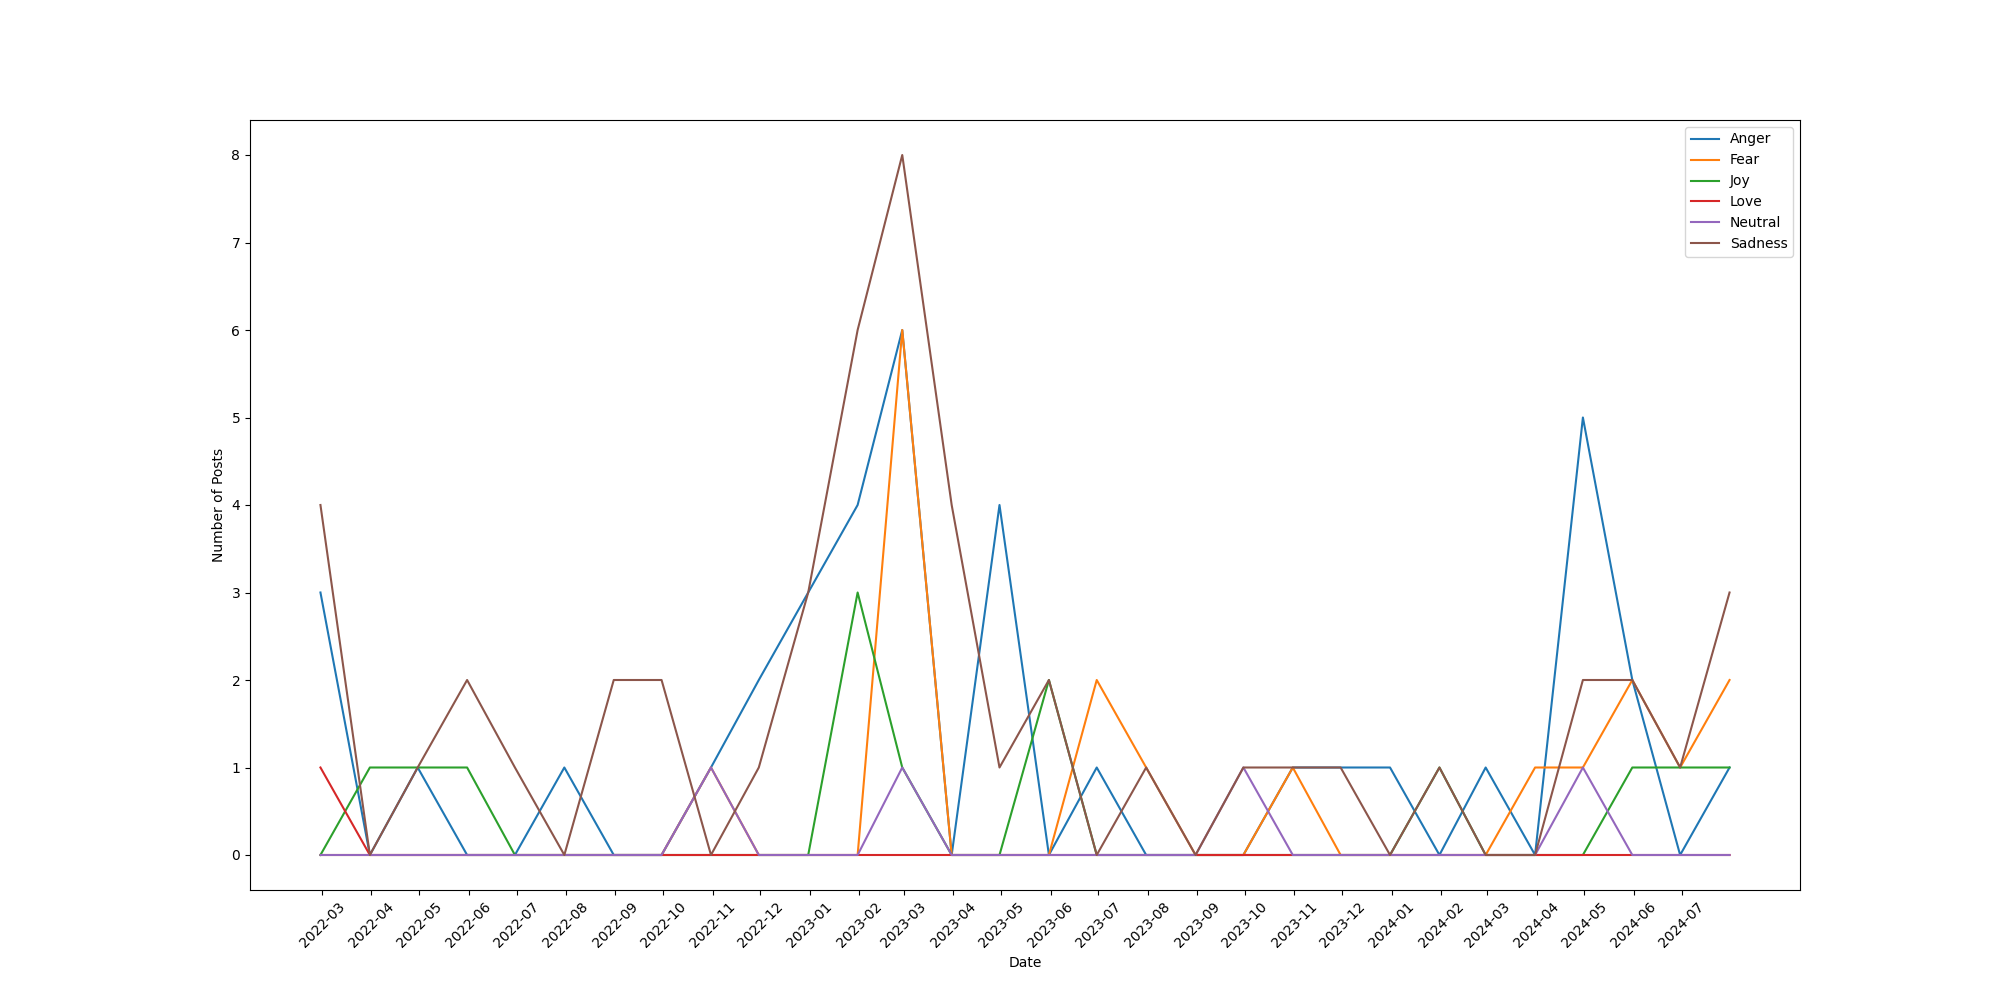
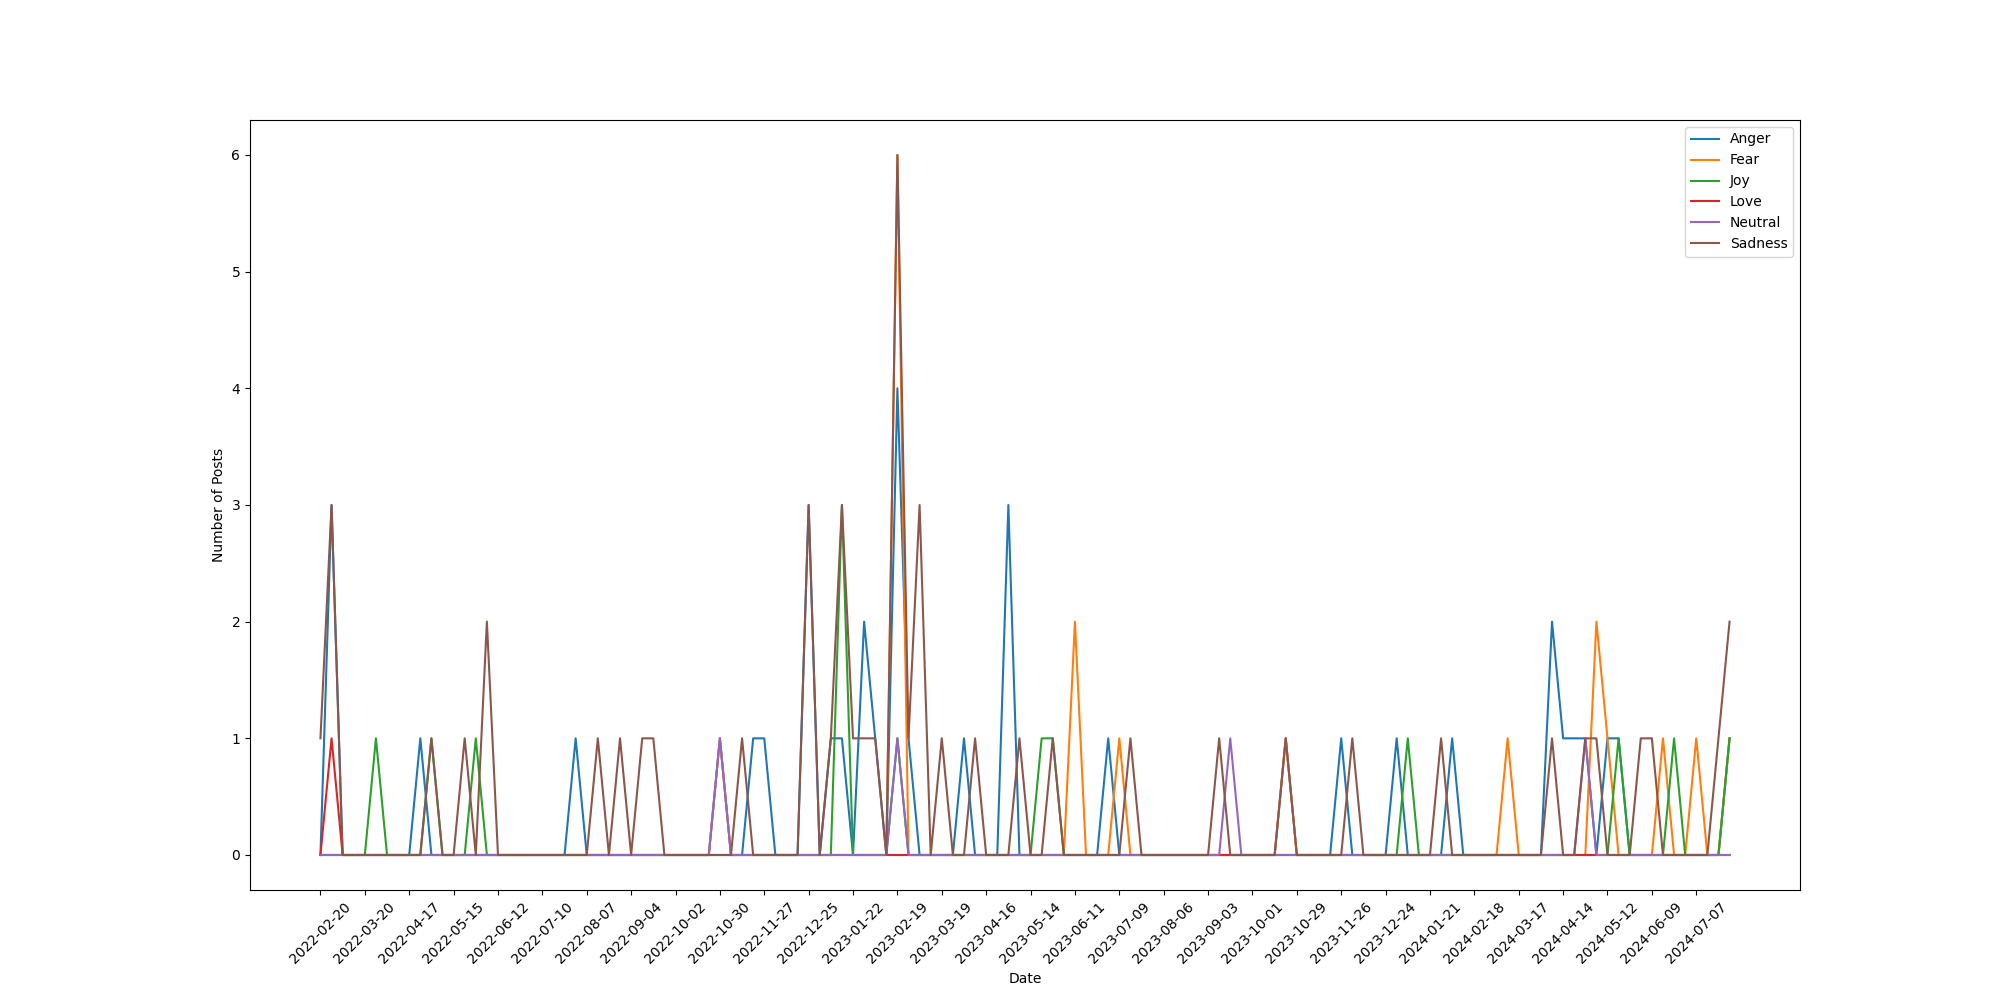
Added to graphs

Changed region(s): [[0.155, 0.155, 0.868, 0.868], [0.155, 0.899, 0.868, 0.992], [0.496, 0.527, 0.527, 0.558]]

diff --git a/sentiment_analysis/sentiments_vs_outbreaks_levels.py b/sentiment_analysis/sentiments_vs_outbreaks_levels.py
@@ -3,7 +3,7 @@ import matplotlib.pyplot as plt
 from scipy.stats import pearsonr
 import os
 
-def generate_correlation_graph(state, sentiment, shifted=False):\
+def generate_correlation_graph(state, sentiment, shifted=False, removed_outliers=False):
 
     if state == '_overall_':
         sentiments_data = pd.read_csv('csv_files/classified_comments.csv')
@@ -54,6 +54,13 @@ def generate_correlation_graph(state, sentiment, shifted=False):\
         sentiments_data = sentiments_data.shift(-3)
         sentiments_data = sentiments_data.iloc[:-3]
 
+    # Remove the outliers
+    if removed_outliers:
+        sentiments_data = sentiments_data[~(
+            (sentiments_data.index >= pd.Timestamp('2023-01-01')) & 
+            (sentiments_data.index <= pd.Timestamp('2023-01-31'))
+        )]
+
     # Calculate Pearson correlation
     sentiment_levels = []
     cases_levels = []
@@ -84,6 +91,8 @@ def generate_correlation_graph(state, sentiment, shifted=False):\
     plt.text(0.5, 1.05, f"Pearson correlation coefficient: {correlation.round(3)}", ha='center', transform=plt.gca().transAxes)
     
     if shifted:
+        plt.savefig(f"graphs/outbreaks_cases_vs_sentiment_levels/{state}/no_outliers_outbreaks_vs_sentiment_levels/outbreaks_vs_{sentiment}_levels.png")
+    elif removed_outliers:
         plt.savefig(f"graphs/outbreaks_cases_vs_sentiment_levels/{state}/shifted_outbreaks_vs_sentiment_levels/outbreaks_vs_{sentiment}_levels.png")
     else:
         plt.savefig(f"graphs/outbreaks_cases_vs_sentiment_levels/{state}/outbreaks_vs_{sentiment}_levels.png")
@@ -100,7 +109,9 @@ for file in files:
     state = file[:-4].split('/')[-1]
     generate_correlation_graph(state, 'Overall')
     generate_correlation_graph(state, 'Overall', shifted=True)
+    generate_correlation_graph(state, 'Overall', removed_outliers=True)
 
 for sentiment in sentiments:
     generate_correlation_graph('_overall_', sentiment)
     generate_correlation_graph('_overall_', sentiment, shifted=True)
+    generate_correlation_graph('_overall_', sentiment, removed_outliers=True)

diff --git a/sentiment_analysis/sentiments_time_series.py b/sentiment_analysis/sentiments_time_series.py
@@ -8,22 +8,24 @@ def plot_time_series(data, state):
     data_grouped = data.groupby(['Date', 'Sentiment']).size().unstack(fill_value=0)
     data_grouped.index = pd.to_datetime(data_grouped.index)
 
-    monthly_data = data_grouped.resample('M').sum()
+    weekly_data = data_grouped.resample('W').sum()  # Group by week
 
-    # Ensure all months are included in the x-axis
-    all_months = pd.date_range(
-        start=monthly_data.index.min(), 
-        end=monthly_data.index.max(), 
-        freq='MS'
+    # Ensure all weeks are included in the x-axis
+    all_weeks = pd.date_range(
+        start=weekly_data.index.min(), 
+        end=weekly_data.index.max(), 
+        freq='4W' 
     )
 
-    plt.figure(figsize=(20, 10))
-    plt.xticks(all_months, rotation=45)
-    plt.gca().set_xticks(all_months)
-    plt.gca().set_xticklabels([date.strftime('%Y-%m') for date in all_months])
+    print(all_weeks)
 
-    for sentiment in monthly_data.columns:
-        plt.plot(monthly_data.index, monthly_data[sentiment], label=sentiment)
+    plt.figure(figsize=(20, 10))
+    plt.xticks(all_weeks, rotation=45)
+    plt.gca().set_xticks(all_weeks)
+    plt.gca().set_xticklabels([date.strftime('%Y-%m-%d') for date in all_weeks])
+
+    for sentiment in weekly_data.columns:
+        plt.plot(weekly_data.index, weekly_data[sentiment], label=sentiment)
 
     plt.xlabel('Date')
     plt.ylabel('Number of Posts')
